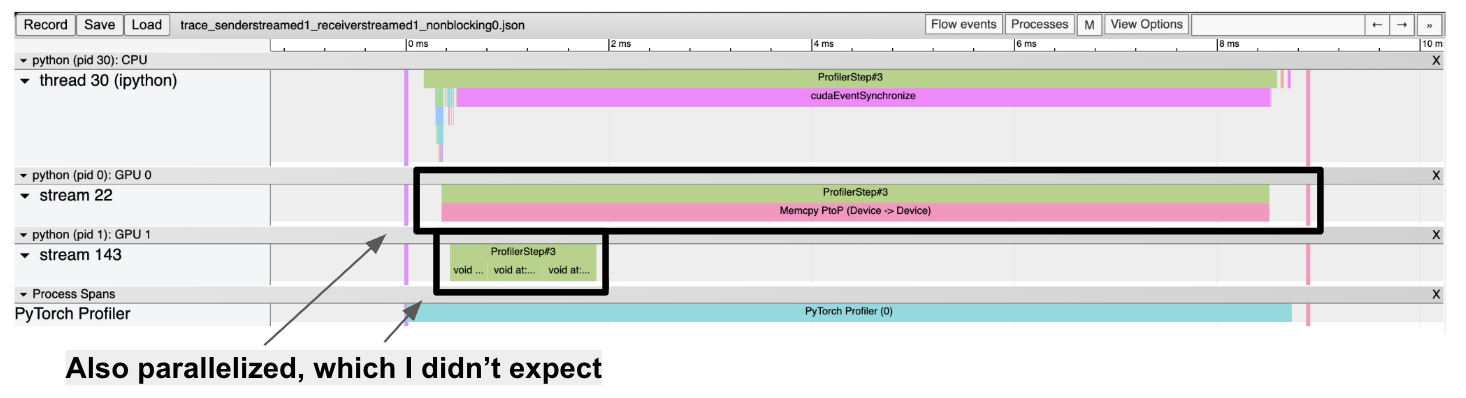
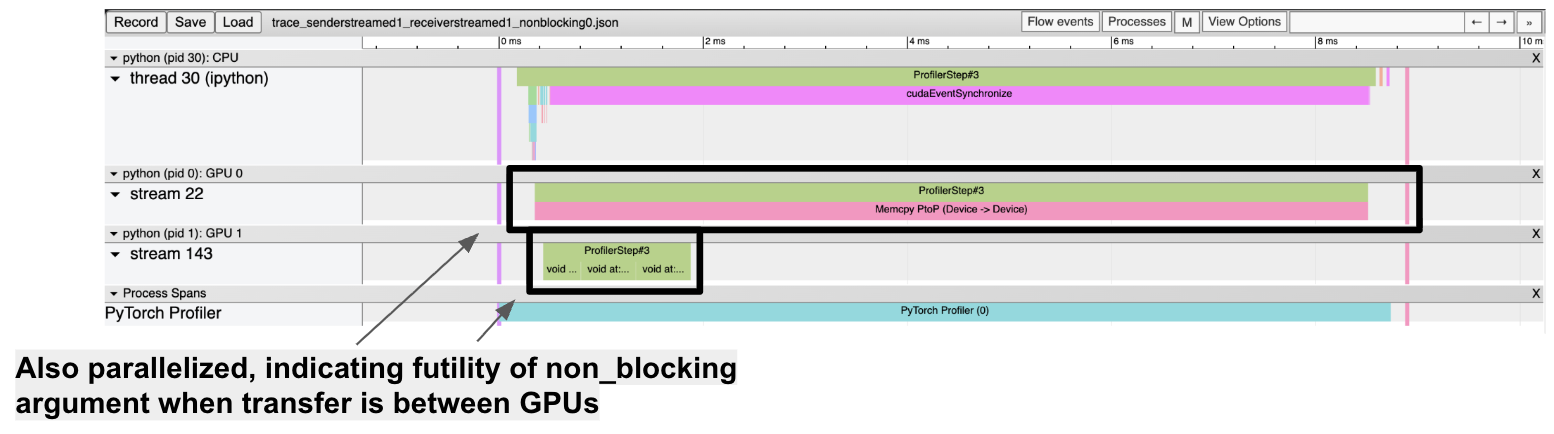
non_blocking doubt cleared in gpu gpu transfer blog

diff --git a/_posts/2025-10-31-transferring-data-between-gpus-in-fully-parallel-fashion.md b/_posts/2025-10-31-transferring-data-between-gpus-in-fully-parallel-fashion.md
@@ -132,7 +132,7 @@ Traces for first 3 conditions with non_blocking True shows no parallelization:
 With the transfer happening in the context of secondary streams on both devices, we observe parallelization:
 ![with both streams, we observe parallelization](/images/traces_gpu_gpu_transfer_bothstreamed.png "With both streams, we observe parallelization")
 
-Interestingly, when non_blocking = False also and both streams on, we observe parallelization. I need to understand as to why this is happening as I expected the non-blocking to make the cpu main thread wait till the transfer was complete, hence the multiplication job wouldn't have even been submitted to the gpu1 before the tranfer, but that is not what we see:
+Also, when non_blocking = False and both streams on, we observe parallelization. This is because the non_blocking argument has a role only when the CPU is involved in the transfer. If the transfer is between different GPUs, the non_blocking argument doesn't have any effect (https://forums.developer.nvidia.com/t/are-cudamemcpy-and-cudamalloc-blocking-synchronous/308368).
 ![Both streams in case of non-blocking = False also gives parallelization](/images/traces_gpu_gpu_transfer_nonblocking_false.png "Both streams in case of non-blocking = False also gives parallelization")
 
 ### Conclusions
@@ -142,3 +142,4 @@ Hence, I was able to study about some intricacies of transferring data between G
 ### References
 
 - https://docs.pytorch.org/tutorials/intermediate/pinmem_nonblock.html
+- https://forums.developer.nvidia.com/t/are-cudamemcpy-and-cudamalloc-blocking-synchronous/308368
